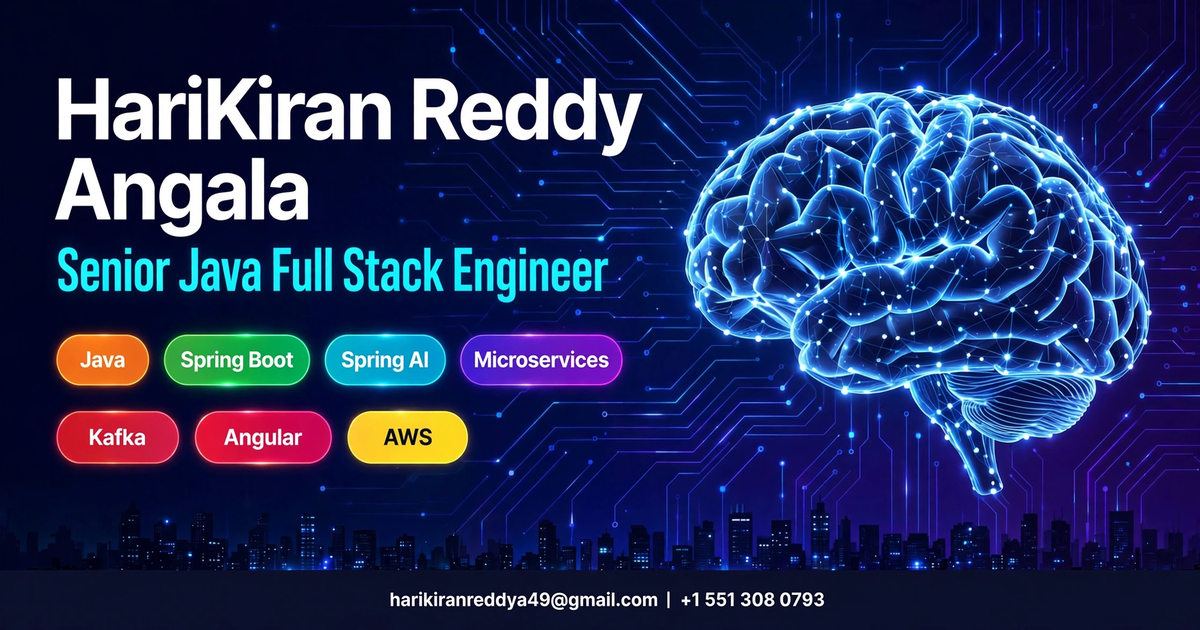
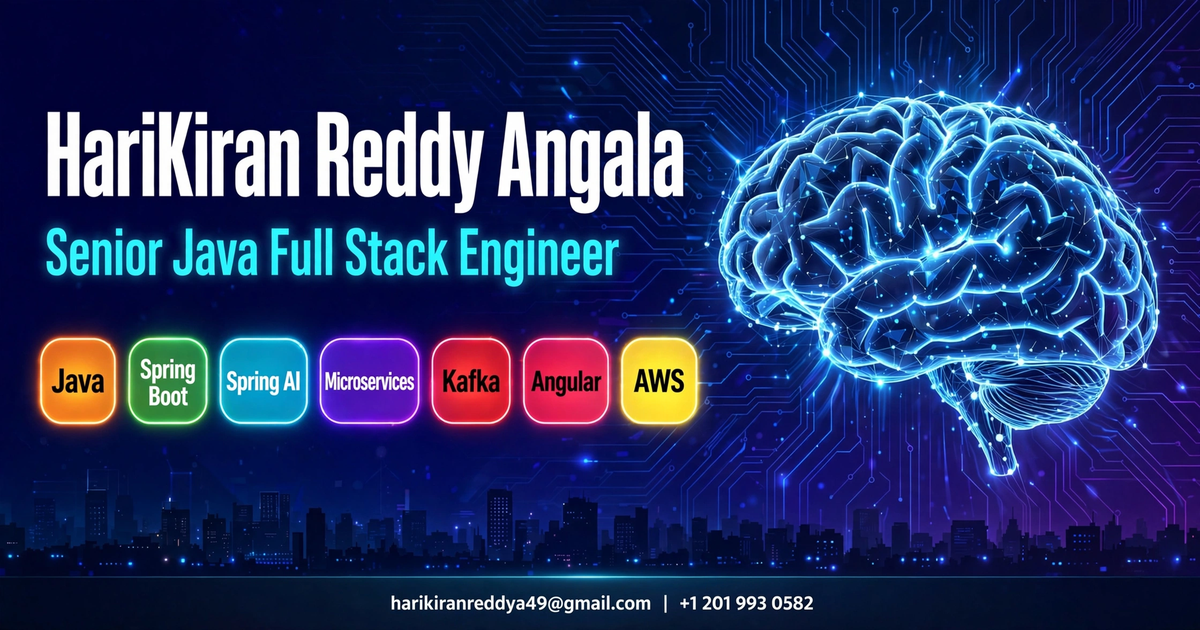
Add files via upload

diff --git a/index.html b/index.html
@@ -548,7 +548,7 @@
             <a class="btn btn-outline" href="https://www.linkedin.com/in/harikiran-reddy-angala/" target="_blank" rel="noopener">LinkedIn ↗</a>
             <a class="btn btn-outline" href="https://github.com/hari131415" target="_blank" rel="noopener">GitHub ↗</a>
           </div>
-          <p style="margin-top:16px;font-size:13px;opacity:0.75">Prefer a call? <a href="tel:+15513080793" style="text-decoration:underline;text-underline-offset:3px">+1 551-308-0793</a></p>
+          <p style="margin-top:16px;font-size:13px;opacity:0.75">Prefer a call? <a href="tel:+12019930582" style="text-decoration:underline;text-underline-offset:3px">+1 201-993-0582</a></p>
         </div>
         <div class="contact-list">
           <div class="contact-row">
@@ -556,8 +556,8 @@
             <button class="copy-btn" data-copy="harikiranreddya49@gmail.com">Copy</button>
           </div>
           <div class="contact-row">
-            <div><small>Phone</small><strong>+1 551-308-0793</strong></div>
-            <button class="copy-btn" data-copy="+1 551-308-0793">Copy</button>
+            <div><small>Phone</small><strong>+1 201-993-0582</strong></div>
+            <button class="copy-btn" data-copy="+1 201-993-0582">Copy</button>
           </div>
           <div class="contact-row">
             <div><small>LinkedIn</small><strong>linkedin.com/in/harikiran-reddy-angala</strong></div>
